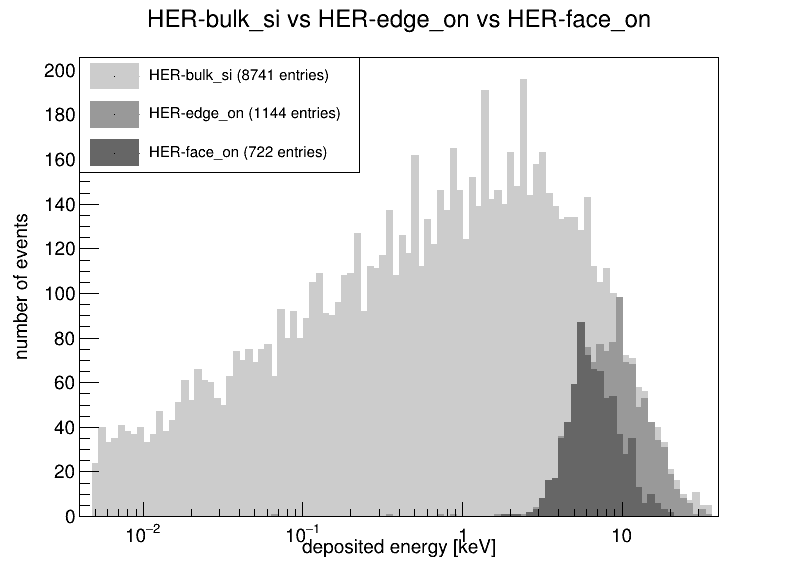
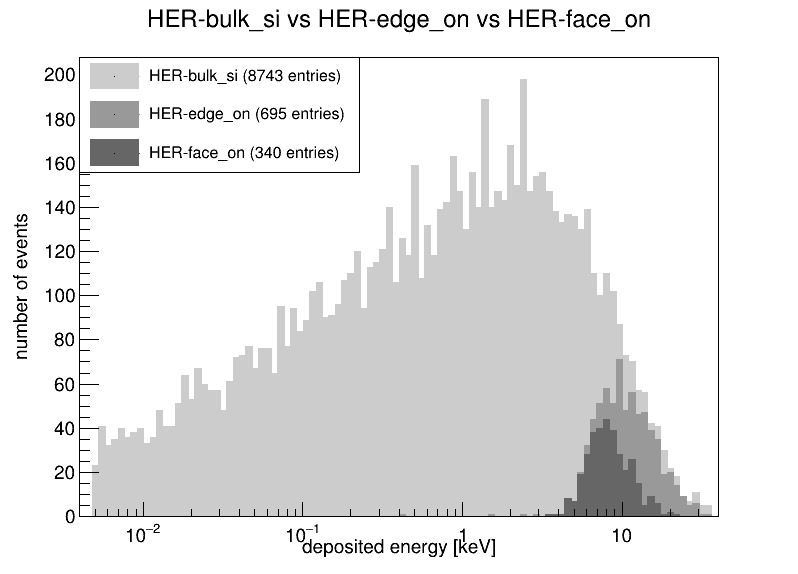
adding Be filter downstream of reference bulk_si; splitting executables by HER/LER since this filter is a different thickness in the two cases

diff --git a/src/B1DetectorConstruction.cc b/src/B1DetectorConstruction.cc
@@ -66,18 +66,29 @@ G4double z_position_of_gun;
 #endif
 #endif
 
+#ifndef LER
+#ifndef HER
+#define HER
+#endif
+#endif
+
 G4VPhysicalVolume* B1DetectorConstruction::Construct() {
 	// Get nist material manager
 	G4NistManager* nist = G4NistManager::Instance();
 	// SuperKEKB XRM:
 	G4double vacuum_dimension = 10.*cm;
-//	G4double Be_upstream_filter_dimension = 2.*mm; // since phase2 2.0 mm for HER; 0.5 mm for LER
+	#ifdef HER
+	G4double Be_upstream_filter_dimension = 2.*mm; // since phase2 2.0 mm for HER; 0.5 mm for LER
+	#endif
+	#ifdef LER
+	G4double Be_upstream_filter_dimension = 0.5*mm; // since phase2 2.0 mm for HER; 0.5 mm for LER
+	#endif
 //	G4double diamond_substrate_thickness = 800.*um; // since phase2
 //	G4double gold_mask_thickness = 20.*um;
-	G4double Be_window_dimension_1 = 0.2*mm; // nominal; HER=8741/1144/722 LER=21464/1656/1175
-	G4double Be_window_dimension_2 = 0.2*mm; // nominal; HER=8741/1144/722 LER=21464/1656/1175
-	G4double air_gap_dimension = 10.*cm; // nominal; HER=8741/1144/722 LER=21464/1656/1175
-	//G4double air_gap_dimension = 1.*cm; // HER=8741/1535/1083 LER=21464/2295/1784
+	G4double Be_window_dimension_1 = 0.2*mm; // nominal; HER=8743/695/340 LER=21459/1282/860
+	G4double Be_window_dimension_2 = 0.2*mm; // nominal; HER=8743/695/340 LER=21459/1282/860
+	G4double air_gap_dimension = 10.*cm; // nominal; HER=8743/695/340 LER=21459/1282/860
+	//G4double air_gap_dimension = 1.*cm; // enhancement; HER=8741/775/392 LER=21459/1640/1163
 //	G4double neck_dimension_of_box = 50.*mm + 108.*mm;
 	G4double position_of_vacuum = 0. - vacuum_dimension/2. - Be_window_dimension_1 - air_gap_dimension - Be_window_dimension_2;
 	G4double env_diameter = 8.5*mm;
@@ -96,7 +107,9 @@ G4VPhysicalVolume* B1DetectorConstruction::Construct() {
 //	G4cout << "position_of_first_part_of_sensor " << position_of_first_part_of_sensor << G4endl;
 	// Option to switch on/off checking of volumes overlaps
 	G4bool checkOverlaps = true;
-	z_position_of_gun = position_of_vacuum - 4.*cm;
+	z_position_of_gun = position_of_vacuum - vacuum_dimension/2. + 1.*cm;
+	//G4double position_of_Be_filter = 0. - vacuum_dimension/2. + 2.*cm; // upstream of bulk_si reference
+	G4double position_of_Be_filter = 0. + vacuum_dimension/2. - 2.*cm; // downstream of bulk_si reference
 
 	// World
 	G4double world_sizeXY = 1.2*env_diameter;
@@ -133,14 +146,33 @@ G4VPhysicalVolume* B1DetectorConstruction::Construct() {
 	                  0,                       //copy number
 	                  checkOverlaps);          //overlaps checking
 
+	// all Be cylinders:
+	G4Material* Be_mat = nist->FindOrBuildMaterial("G4_Be");
+	G4double shape0_rmina =  0.*cm, shape0_rmaxa = env_diameter/2.;
+	G4double shape0_rminb =  0.*cm, shape0_rmaxb = env_diameter/2.;
+	G4double shape0_phimin = 0.*deg, shape0_phimax = 360.*deg;
+
+	// Be filter, upstream of mask:
+	G4double shape5_hz = Be_upstream_filter_dimension/2.;
+	G4ThreeVector pos0 = G4ThreeVector(0, 0, position_of_Be_filter);
+	G4Cons* solidshape5 = new G4Cons("shape5", 
+	  shape0_rmina, shape0_rmaxa, shape0_rminb, shape0_rmaxb, shape5_hz,
+	  shape0_phimin, shape0_phimax);
+	G4LogicalVolume* logicshape5 = new G4LogicalVolume(solidshape5,         //its solid
+	                      Be_mat,          //its material
+	                      "shape5");           //its name
+	new G4PVPlacement(0,                       //no rotation
+	                  pos0,                    //at position
+	                  logicshape5,             //its logical volume
+	                  "shape5",                //its name
+	                  logicVac,                //its mother  volume
+	                  false,                   //no boolean operation
+	                  0,                       //copy number
+	                  checkOverlaps);          //overlaps checking
 	#ifdef REAL_XRM_SITUATION
 		// select real XRM situation or bulk silicon
-		G4Material* Be_mat = nist->FindOrBuildMaterial("G4_Be");
-		G4ThreeVector pos0 = G4ThreeVector(0, 0, position_of_Be_window_1);
-		G4double shape0_rmina =  0.*cm, shape0_rmaxa = env_diameter/2.;
-		G4double shape0_rminb =  0.*cm, shape0_rmaxb = env_diameter/2.;
+		pos0 = G4ThreeVector(0, 0, position_of_Be_window_1);
 		G4double shape0_hz = Be_window_dimension_1/2.;
-		G4double shape0_phimin = 0.*deg, shape0_phimax = 360.*deg;
 		G4Cons* solidshape0 = new G4Cons("shape0", 
 		  shape0_rmina, shape0_rmaxa, shape0_rminb, shape0_rmaxb, shape0_hz,
 		  shape0_phimin, shape0_phimax);
@@ -156,12 +188,9 @@ G4VPhysicalVolume* B1DetectorConstruction::Construct() {
 		                  0,                       //copy number
 		                  checkOverlaps);          //overlaps checking
 		pos0 = G4ThreeVector(0, 0, position_of_Be_window_2);
-		shape0_rmina =  0.*cm, shape0_rmaxa = env_diameter/2.;
-		shape0_rminb =  0.*cm, shape0_rmaxb = env_diameter/2.;
-		shape0_hz = Be_window_dimension_2/2.;
-		shape0_phimin = 0.*deg, shape0_phimax = 360.*deg;
+		G4double shape4_hz = Be_window_dimension_2/2.;
 		G4Cons* solidshape4 = new G4Cons("shape4", 
-		  shape0_rmina, shape0_rmaxa, shape0_rminb, shape0_rmaxb, shape0_hz,
+		  shape0_rmina, shape0_rmaxa, shape0_rminb, shape0_rmaxb, shape4_hz,
 		  shape0_phimin, shape0_phimax);
 		G4LogicalVolume* logicshape4 = new G4LogicalVolume(solidshape4,         //its solid
 		                      Be_mat,          //its material
@@ -175,8 +204,8 @@ G4VPhysicalVolume* B1DetectorConstruction::Construct() {
 		                  0,                       //copy number
 		                  checkOverlaps);          //overlaps checking
 		// Envelope
-		G4Material* env_mat = nist->FindOrBuildMaterial("G4_He"); // nominal; HER=8741/1144/722 LER=21464/1656/1175
-		//G4Material* env_mat = nist->FindOrBuildMaterial("G4_AIR"); // HER=8741/606/254 LER=21464/662/350
+		G4Material* env_mat = nist->FindOrBuildMaterial("G4_He"); // nominal; HER=8743/695/340 LER=21459/1282/860
+		//G4Material* env_mat = nist->FindOrBuildMaterial("G4_AIR"); // suppression; HER=8743/447/162 LER=21459/597/268
 		G4Tubs *solidEnv = new G4Tubs("Envelope", 0., env_diameter/2., 0.5*env_sizeZ, 0., 2.*M_PI);
 		G4LogicalVolume *logicEnv = new G4LogicalVolume(solidEnv,            //its solid
 		                      env_mat,             //its material

diff --git a/README.md b/README.md
@@ -66,16 +66,19 @@ mza@ubuntu18-04:~/build/XRM$ ./go.sh
 -- Configuring done
 -- Generating done
 -- Build files have been written to: /home/mza/build/XRM/build
-[ 33%] Built target bulk_si
-[ 66%] Built target face_on
-[100%] Built target edge_on
-read 8741 lines from file HER-bulk_si
-read 1144 lines from file HER-edge_on
-read 722 lines from file HER-face_on
+[ 16%] Built target edge_on_HER
+[ 33%] Built target bulk_si_HER
+[ 50%] Built target face_on_HER
+[ 66%] Built target bulk_si_LER
+[ 83%] Built target edge_on_LER
+[100%] Built target face_on_LER
+read 8743 lines from file HER-bulk_si
+read 695 lines from file HER-edge_on
+read 340 lines from file HER-face_on
 generated XRM.HER.png
-read 21464 lines from file LER-bulk_si
-read 1656 lines from file LER-edge_on
-read 1175 lines from file LER-face_on
+read 21459 lines from file LER-bulk_si
+read 1282 lines from file LER-edge_on
+read 860 lines from file LER-face_on
 generated XRM.LER.png
 ```
 
